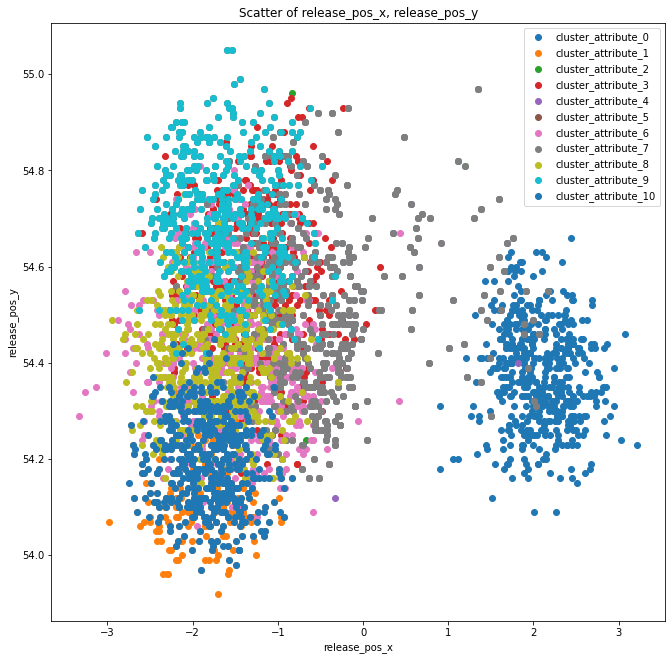
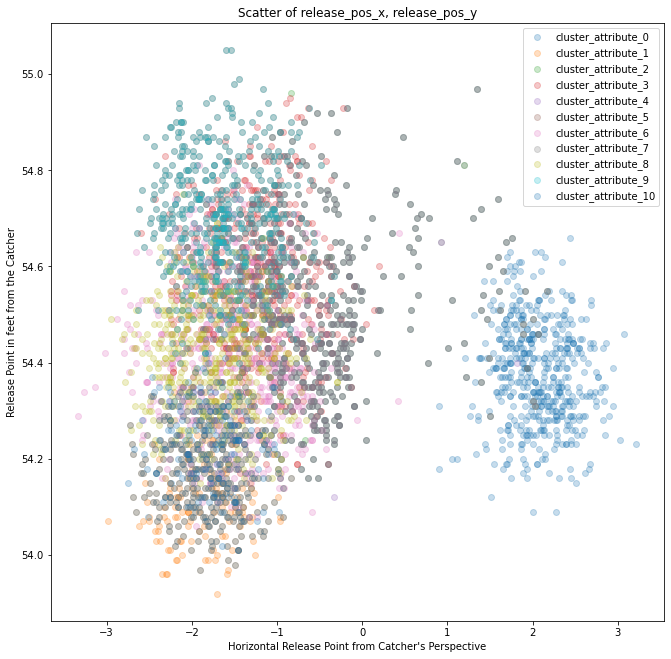
opacity_names_fixed

diff --git a/libs/plot_results.py b/libs/plot_results.py
@@ -60,9 +60,9 @@ class ClusterPlots():
         ax = fig.add_subplot(111)    
         for i in range(0,len(self.cluster_cols)):
             df_temp = self.clusters_close[self.cluster_cols[i]]
-            ax.scatter(df_temp[x],df_temp[y],label=self.cluster_cols[i])
-            ax.set_xlabel(x)
-            ax.set_ylabel(y)
+            ax.scatter(df_temp[x],df_temp[y],label=self.cluster_cols[i],alpha=0.25)
+            ax.set_xlabel(self.rename_var(x))
+            ax.set_ylabel(self.rename_var(y))
             ax.set_title("Scatter of " + x + ", " + y)    
         plt.legend()
         image_name = 'images/cluster/scatter_2d/' + x + '_' + y + '_scatter_2d' + '.png'
@@ -76,11 +76,11 @@ class ClusterPlots():
         ax = fig.add_subplot(111, projection='3d')
         for i in range(0,len(self.cluster_cols)):
             df_temp = self.clusters_close[self.cluster_cols[i]]
-            ax.scatter(df_temp[x],df_temp[y],df_temp[z],label=self.cluster_cols[i])
-            ax.set_xlabel('release_speed')
-            ax.set_ylabel(x)
-            ax.set_zlabel(y)
-            ax.set_title(z)
+            ax.scatter(df_temp[x],df_temp[y],df_temp[z],label=self.cluster_cols[i],alpha=0.25)
+            ax.set_xlabel(self.rename_var(x))
+            ax.set_ylabel(self.rename_var(y))
+            ax.set_zlabel(self.rename_var(z))
+            ax.set_title("Scatter of " + x + ", " + y + ", " + z)
         plt.legend()
         image_name = 'images/cluster/scatter_3d/' + x + '_' + y + '_' + z + '_scatter_3d' + '.png'
         plt.savefig(image_name, bbox_inches='tight')
@@ -93,7 +93,7 @@ class ClusterPlots():
             ax=fig.add_subplot(4,3,i+1)
             plt.subplot(4, 3, i+1)
             clust_name = self.cluster_cols[i]
-            plt.title(str(clust_name))
+            plt.title(self.rename_var(clust_name))
             df_temp = self.clusters_close[clust_name]
             plt.hist(df_temp[col].dropna())
             plt.margins(0.05)
@@ -101,6 +101,30 @@ class ClusterPlots():
         img_name = 'images/cluster/hist/' + col + '_hist' + '.png'
         plt.savefig(img_name, bbox_inches='tight')
         plt.show()
+        
+    # Renames variables so it is easier to tell what it represents
+    def rename_var(self, x):
+        if x == "spin_x":
+            return "Spin X: Horizontal Spin from First to Third Base"
+        elif x == "spin_z":
+            return "Spin Z: Vertical Spin from Pitcher to Catcher"
+        elif x == "release_speed":
+            return "Release Speed: Velocity of Pitch at Point of Release"
+        elif x == "release_pos_x":
+            return "Horizontal Release Point from Catcher's Perspective"
+        elif x == "release_pos_y":
+            return "Release Point in feet from the Catcher"
+        elif x == "release_pos_z":
+            return "Vertical Release Point from Catcher's Perspective"
+        elif x == "p_throws":
+            return "Pitcher Handedness"
+        elif x == "effective_speed":
+            return "Effective Speed of Pitch as Viewed by Batter"
+        elif x == "pitch_type":
+            return "Pitch Type"
+        else:
+            return x
+        
         
     # retrieves and transforms the training dataset for analysis
     def retrieve_data(self):
